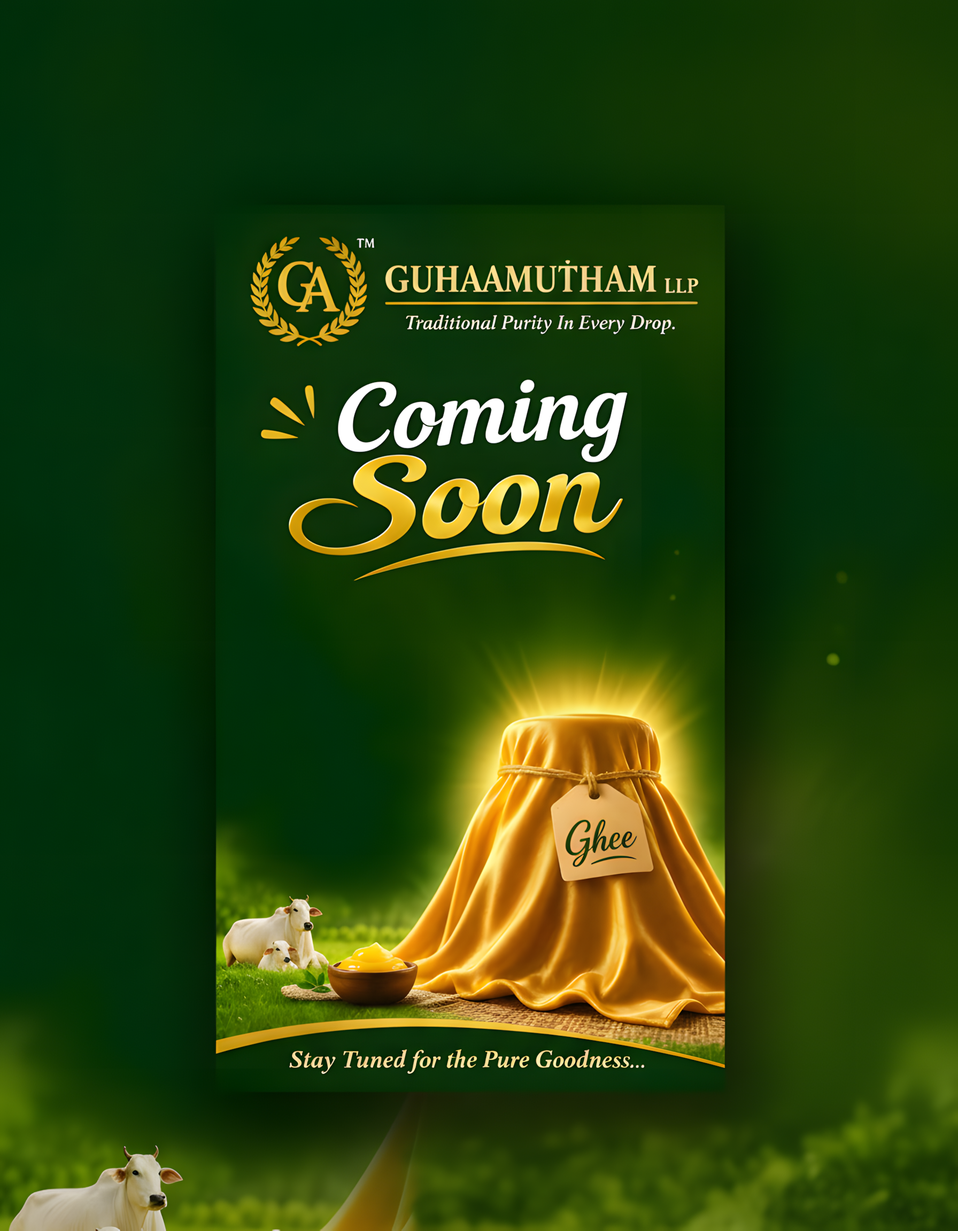
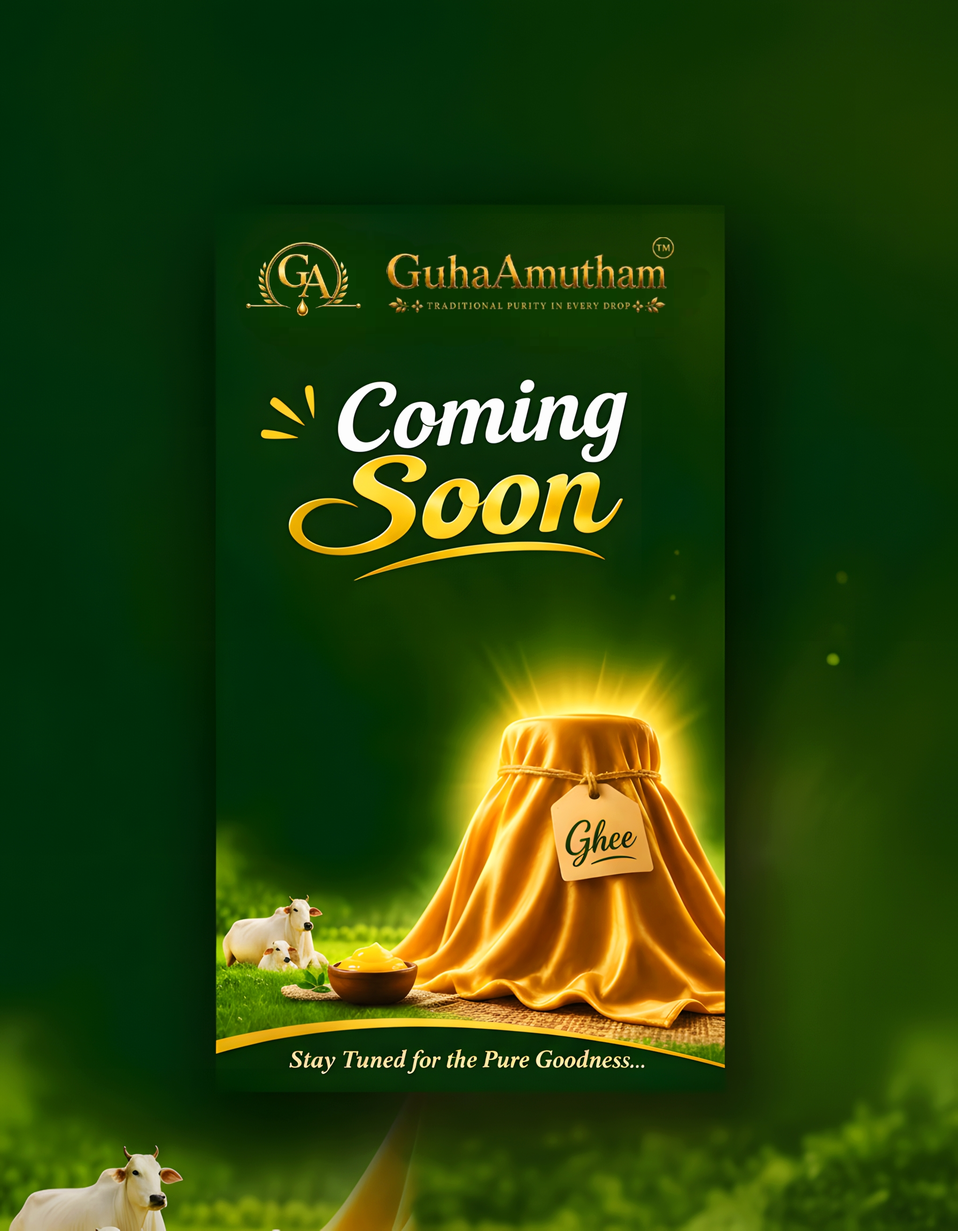
changedimagess

diff --git a/home.html b/home.html
@@ -13,7 +13,7 @@
     <div id="hd"></div>
     <div class="tk" aria-hidden="true">
       <div>
-        <span>COCONUT OIL</span><span>·</span><span>GROUNDNUT OIL</span><span>·</span><span>GINGELLY OIL</span><span>·</span><span>MADE IN INDIA</span><span>·</span><span>FOR EVERYDAY COOKING</span><span>·</span>
+        <span>COCONUT OIL</span><span>·</span><span>GROUNDNUT OIL</span><span>·</span><span>GINGELLY OIL</span><span>·<span>COMMING SOON - GHEE</span></span><span>·</span><span>MADE IN INDIA</span><span>·</span><span>FOR EVERYDAY COOKING</span><span>·</span>
       </div>
     </div>
     <section class="hero dk" id="intro" aria-label="Introduction">
@@ -127,7 +127,7 @@
         </div>
         <div class="ghee-promo__visual">
           <img
-            src="assets/images/WhatsApp%20Image%202026-11-03%20at%2012.59.30%20PM.jpeg"
+            src="assets/images/newchapter.png"
             alt="GuhaAmutham Ghee coming soon promotional announcement"
             loading="lazy"
           >

diff --git a/about.html b/about.html
@@ -12,7 +12,7 @@
     <div id="hd"></div>
     <div class="tk" aria-hidden="true">
       <div>
-        <span>COCONUT OIL</span><span>·</span><span>GROUNDNUT OIL</span><span>·</span><span>GINGELLY OIL</span><span>·</span><span>MADE IN INDIA</span><span>·</span><span>FOR EVERYDAY COOKING</span><span>·</span>
+        <span>COCONUT OIL</span><span>·</span><span>GROUNDNUT OIL</span><span>·</span><span>GINGELLY OIL</span><span>·<span>COMMING SOON - GHEE</span></span><span>·</span><span>MADE IN INDIA</span><span>·</span><span>FOR EVERYDAY COOKING</span><span>·</span>
       </div>
     </div>
     <section class="ph dk">

diff --git a/contact.html b/contact.html
@@ -12,7 +12,7 @@
     <div id="hd"></div>
     <div class="tk" aria-hidden="true">
       <div>
-        <span>COCONUT OIL</span><span>·</span><span>GROUNDNUT OIL</span><span>·</span><span>GINGELLY OIL</span><span>·</span><span>MADE IN INDIA</span><span>·</span><span>FOR EVERYDAY COOKING</span><span>·</span>
+        <span>COCONUT OIL</span><span>·</span><span>GROUNDNUT OIL</span><span>·</span><span>GINGELLY OIL</span><span>·<span>COMMING SOON - GHEE</span></span><span>·</span><span>MADE IN INDIA</span><span>·</span><span>FOR EVERYDAY COOKING</span><span>·</span>
       </div>
     </div>
     <section class="ph dk">

diff --git a/our-oils.html b/our-oils.html
@@ -12,7 +12,7 @@
     <div id="hd"></div>
     <div class="tk" aria-hidden="true">
       <div>
-        <span>COCONUT OIL</span><span>·</span><span>GROUNDNUT OIL</span><span>·</span><span>GINGELLY OIL</span><span>·</span><span>MADE IN INDIA</span><span>·</span><span>FOR EVERYDAY COOKING</span><span>·</span>
+        <span>COCONUT OIL</span><span>·</span><span>GROUNDNUT OIL</span><span>·</span><span>GINGELLY OIL</span><span>·<span>COMMING SOON - GHEE</span></span><span>·</span><span>MADE IN INDIA</span><span>·</span><span>FOR EVERYDAY COOKING</span><span>·</span>
       </div>
     </div>
     <section class="ph dk">
